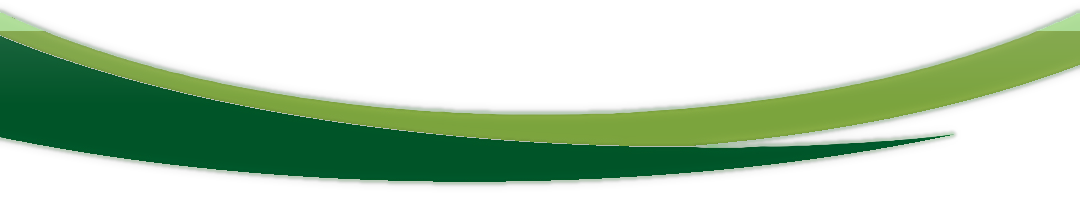
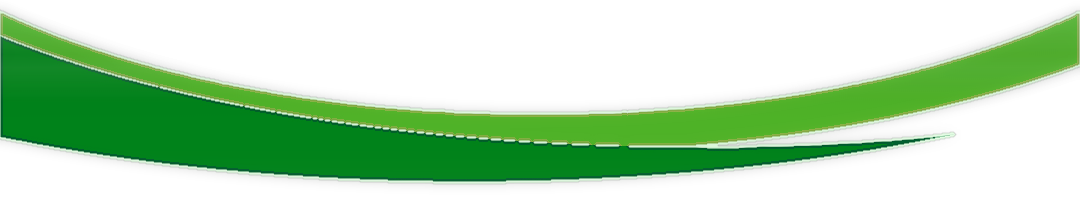
Enhanced glass: triple specular, white edge, glow + SVG filter

diff --git a/css/styles.css b/css/styles.css
@@ -718,8 +718,10 @@ img {
   height: 60px;
   background: url('../assets/graf-4-glass.png') no-repeat bottom center / cover;
   border-radius: 0 0 var(--radius-lg) var(--radius-lg);
+  border-top: 1px solid rgba(255, 255, 255, 0.08);
   pointer-events: none;
   z-index: 0;
+  filter: url(#liquid-glass);
 }
 
 .cards-row-center {